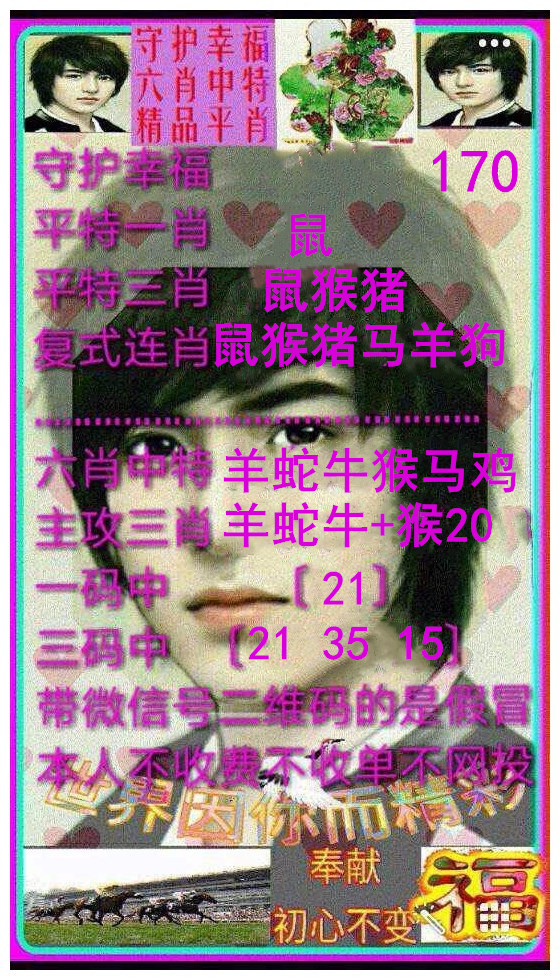
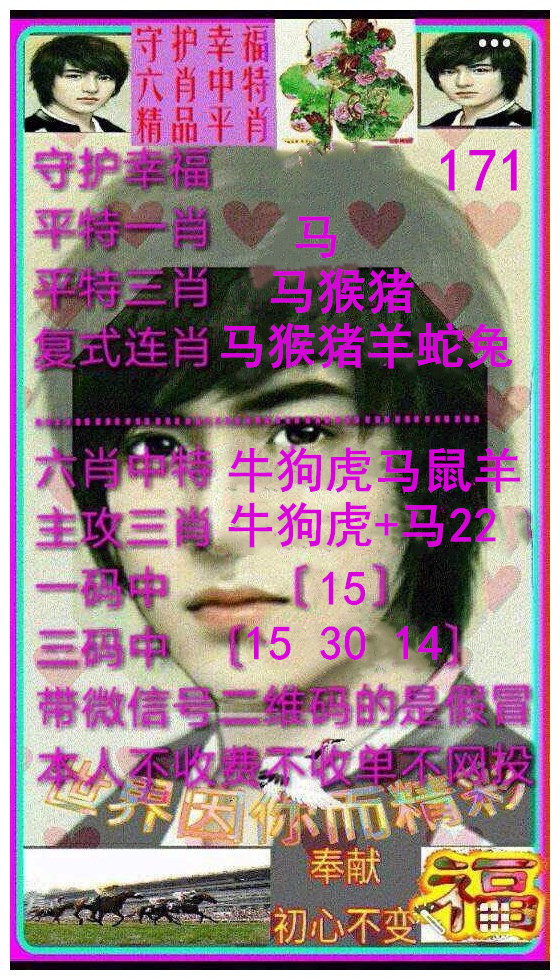
Update:  2023.06.20 00:26:01

diff --git a/Script/Src/xjw/杀两肖图.js b/Script/Src/xjw/杀两肖图.js
@@ -46,8 +46,8 @@ document.writeln("					<td height=\'40\' style=\'box-sizing: border-box;\'>");
 document.writeln("			<p align=\'center\' style=\'box-sizing: border-box; padding: 0px; margin: 0px;\'>");
 document.writeln("			<font size=\'4\' style=\'margin: 0px; padding: 0px;\'>");
 document.writeln("			171期玄机网禁两肖<font color=\'#FF0000\'>【鼠牛】</font>特开<font color=\'#0000FF\'>？00</font>准<br>");
-document.writeln("			171期澳门杀两肖图<font color=\'#FF0000\'>【更新】</font>特开<font color=\'#0000FF\'>？00</font>准<br>");
-document.writeln("			171期澳门图库禁肖<font color=\'#FF0000\'>【更新】</font>特开<font color=\'#0000FF\'>？00</font>准</font></font></p></td>");
+document.writeln("			171期澳门杀两肖图<font color=\'#FF0000\'>【虎狗】</font>特开<font color=\'#0000FF\'>？00</font>准<br>");
+document.writeln("			171期澳门图库禁肖<font color=\'#FF0000\'>【狗鸡】</font>特开<font color=\'#0000FF\'>？00</font>准</font></font></p></td>");
 document.writeln("		</tr>");
 document.writeln("<!--推广-->");
 document.writeln("				<tr style=\'box-sizing: border-box;\'>");
